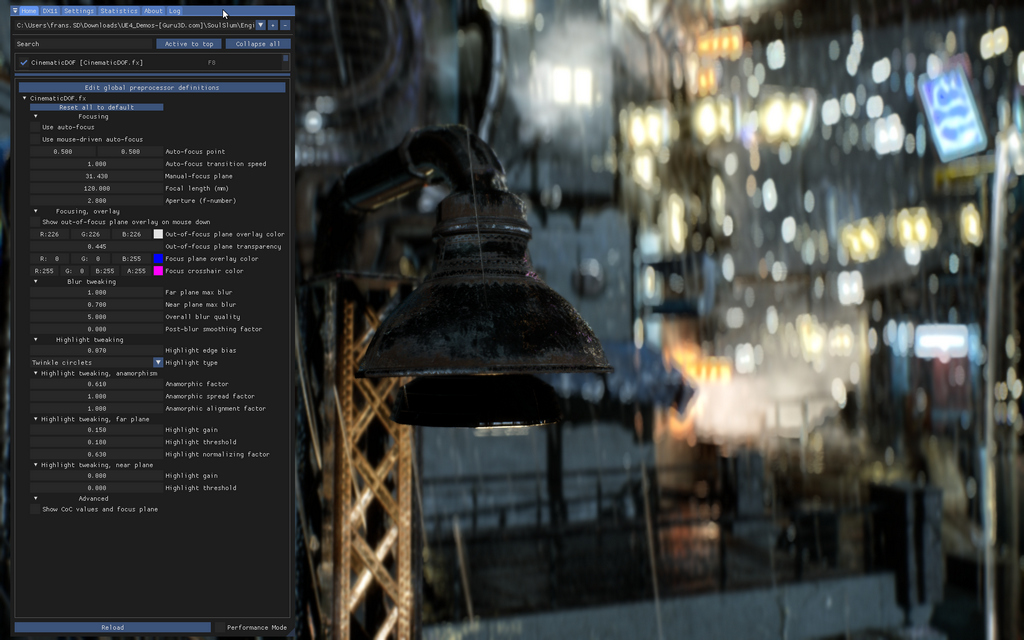
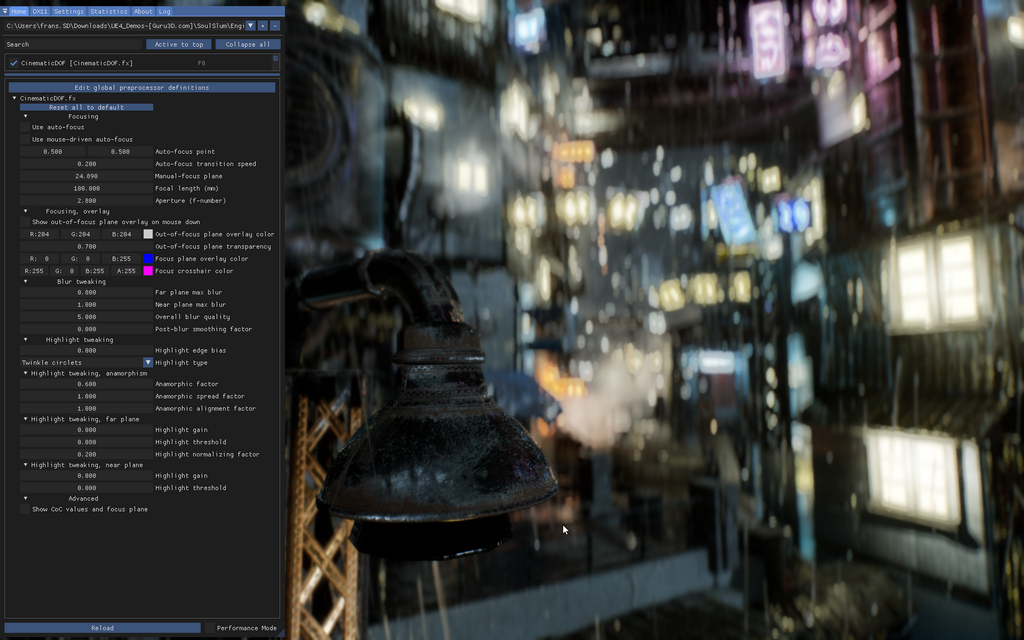
UPdated images in cinematicdof guide

diff --git a/ReshadeGuides/Shaders/cinematicdof.htm b/ReshadeGuides/Shaders/cinematicdof.htm
@@ -101,7 +101,8 @@ and this guide should help you understand what the various values mean and what 
 <p>All settings in the Cinematic DOF shader are drag sliders, which means you can click them, hold the left-mousebutton and drag the mouse
 left or right to resp. decrease and increase the value. By holding <code>shift</code> while dragging the increase/decrease will go faster. When holding
 <code>ctrl</code> while clicking gives you the ability to type in the value you want. </p>
-<h2 id="focusing">Focusing<a class="headerlink" href="#focusing" title="Permalink to this headline"><i class="fa fa-link" aria-hidden="true"></i></a></h2>
+<div class="alert alert-info"><span class="alert-title"><i class="fa fa-info-circle"></i> Info</span><p>The screenshots below are taken with Cinematic DOF v1.1.10, released on May 25th, 2019.</p>
+</div><h2 id="focusing">Focusing<a class="headerlink" href="#focusing" title="Permalink to this headline"><i class="fa fa-link" aria-hidden="true"></i></a></h2>
 <p>One of the most important parts of a depth of field shader is to focus on the right element in the 3D world. By default the 
 shader has its focusing mode set to <em>auto-focus</em> and <em>mouse-driven auto-focus</em>. This means that if you mouse the mouse over the scene, the 
 element that's below the mouse pointer will be the element the shader will focus on. Everything in front of it and behind it will be blurred.</p>
@@ -130,12 +131,12 @@ you want to focus on). That leaves the focal length and the aperture. </p>
 in general it means the lower the value, the more open the lens will be, so the more light will come into the lens/camera, and with that the more blur you'll 
 get in out-of-focus areas. For the Cinematic DOF shader, the two parameters are basically doing the same thing, as the shader itself doesn't control the amount of
 light coming into the camera. </p>
-<p>So what values should you pick? To get started, let's look at the defaults the shader comes with: 120mm for Focal length and 2.8 for aperture. If you'd use
-a 120mm lens on a modern camera with aperture 2.8 you'd get nice portrait shots with a nice shallow depth of field and nice background blur. </p>
+<p>So what values should you pick? To get started, let's look at the defaults the shader comes with: 100mm for Focal length and 2.8 for aperture. If you'd use
+a 100mm lens on a modern camera with aperture 2.8 you'd get nice portrait shots with a nice shallow depth of field and nice background blur. </p>
 <p>Here's the default setting in action:</p>
 <div class="figure">
-<img src="../../Images/ShaderGuides/CinematicDOF/focus_120mm_2_8.jpg" alt="120mm/2.8" title="120mm with 2.8 aperture" class="shadowed" width="1024" height="576" />
-<p>120mm with 2.8 aperture</p>
+<img src="../../Images/ShaderGuides/CinematicDOF/focus_100mm_2_8.jpg" alt="100mm/2.8" title="100mm with 2.8 aperture" class="shadowed" width="1024" height="576" />
+<p>100mm with 2.8 aperture</p>
 </div>
 <p>Look careful at the blurring on the wings of the statue, and the thick blurring in the background. </p>
 <p>If we change the lens and aperture to the values of a lens that's often sold with a modern camera, a 50mm lens with aperture 5.6, the results are a bit different:</p>
@@ -145,10 +146,10 @@ a 120mm lens on a modern camera with aperture 2.8 you'd get nice portrait shots 
 </div>
 <p>You can clearly see there's way less blur in the background. The focus is still on the statue, camera is still on the same distance. Also the blurring on the wings is gone, 
 they're cleanly in focus.</p>
-<p>Here's the same scene with a lens of 120mm and aperture of 5.6:</p>
+<p>Here's the same scene with a lens of 100mm and aperture of 5.6:</p>
 <div class="figure">
-<img src="../../Images/ShaderGuides/CinematicDOF/focus_120mm_5_6.jpg" alt="120mm/5.6" title="120mm with 5.6 aperture" class="shadowed" width="1024" height="576" />
-<p>120mm with 5.6 aperture</p>
+<img src="../../Images/ShaderGuides/CinematicDOF/focus_100mm_5_6.jpg" alt="100mm/5.6" title="100mm with 5.6 aperture" class="shadowed" width="1024" height="576" />
+<p>100mm with 5.6 aperture</p>
 </div>
 <p>And with a 50mm lens with aperture 2.8:</p>
 <div class="figure">
@@ -158,11 +159,11 @@ they're cleanly in focus.</p>
 <p>There's subtle more blur than with a 5.6 aperture. You're free to choose what will give you the right blur factor. It's often only necessary to change one the 
 two, either lens length <em>or</em> aperture, but not both. To get started, leave the aperture on 2.8 for now and only change the lens length to a lower value for less blur 
 and a higher value for more blur. </p>
-<div class="alert alert-tip"><span class="alert-title"><i class="fa fa-info-circle"></i> Tip</span><p>Moving the camera closer to the focused element also makes the blur be more prominent. </p>
+<div class="alert alert-tip"><span class="alert-title"><i class="fa fa-info-circle"></i> Tip</span><p>Moving the camera closer to the focused element also makes the blur be more prominent (and you have to change the manual focus plane if you're using manual focusing)</p>
 </div><h2 id="blur-tweaking">Blur tweaking<a class="headerlink" href="#blur-tweaking" title="Permalink to this headline"><i class="fa fa-link" aria-hidden="true"></i></a></h2>
 <p>After you've set up the focus, the lens length and aperture, you can now tweak the blur of the near plane (in front of what's in focus) and the far plane (what's behind
 what's in focus). Additionally you can change the quality of the blur and apply a post-blur smoothing factor to iron out any undersampling artifacts you might see. </p>
-<p>Let's see what these look like. We'll use the defaults of 120mm and aperture of 2.8</p>
+<p>Let's see what these look like. We'll use the defaults of 100mm and aperture of 2.8</p>
 <h3 id="far-plane-blur">Far plane blur<a class="headerlink" href="#far-plane-blur" title="Permalink to this headline"><i class="fa fa-link" aria-hidden="true"></i></a></h3>
 <p>First we have <em>Far plane max blur</em>. Here you can tweak the blur strength given by the lens length + aperture + distance combination. A value of 1.0 gives the 
 default blur for that combination. A value of 0 totally switches off bluring for the far plane. If you set the value to a high value, e.g. 3.0, you get excessive
@@ -178,11 +179,11 @@ blurring as seen in the shot below.</p>
 <p>Far plane blur with blur set to 0.5</p>
 </div>
 <p>This might look the same as using a shorter lens, like 50mm, but that's not the case: with a 50mm lens the blur starts later, deeper into the 3D world, farther away from 
-the focus plane. With 120mm the blur starts already on the wings of the statue. Because the blur factor is set to a lower value, the blur is very subtle. </p>
+the focus plane. With 100mm the blur starts already on the wings of the statue. Because the blur factor is set to a lower value, the blur is very subtle. </p>
 <h3 id="near-plane-blur">Near plane blur<a class="headerlink" href="#near-plane-blur" title="Permalink to this headline"><i class="fa fa-link" aria-hidden="true"></i></a></h3>
 <p>Additionally you can tweak the blur for the <em>near plane</em>. The near plane is blurred with a soft edge to make it realistic. The same applies to the near plane blur as 
 for the far plane blur: setting it to 0 switches it off, setting it to a high value makes the blur extremely prominent. </p>
-<p>Below an example shot where the focus is on the second pilar, using the default blur factor of 1.0 for both near and far plane.</p>
+<p>Below an example shot where the focus is on the statue and far blur has been disabled, using the default near plane blur factor of 1.0.</p>
 <div class="figure">
 <img src="../../Images/ShaderGuides/CinematicDOF/blur_np_1_0.jpg" alt="near plane blur 1.0" title="Near plane blur with blur set to 1.0" class="shadowed" width="1024" height="576" />
 <p>Near plane blur with blur set to 1.0</p>
@@ -225,35 +226,39 @@ than it is on the edges. To do this, increase the <strong>Highlight edge bias</s
 <p>Highlight edge bias of 0.5</p>
 </div>
 <h3 id="highlight-type">Highlight type<a class="headerlink" href="#highlight-type" title="Permalink to this headline"><i class="fa fa-link" aria-hidden="true"></i></a></h3>
-<p>There are different types of highlights. The default is <em>Twinkle circles</em> which gives the nice round colored highlight bokehs. However Cinematic DOF has another
-highlight type, Bloom burn. It can give a more bloomy highlight without the typical round bokehs. An example of this is below.</p>
+<p>There are different types of highlights: Bloom burn and Twinkle circlets. The latter gives more prominent round colored highlight bokehs, Bloom burn keeps things more subtle.
+An example of each is below.</p>
 <div class="figure">
-<img src="../../Images/ShaderGuides/CinematicDOF/ht_bloomblur.jpg" alt="Bloom blur" title="Bloom blur highlight type" class="shadowed" width="1024" height="576" />
-<p>Bloom blur highlight type</p>
+<img src="../../Images/ShaderGuides/CinematicDOF/ht_bloomblur.jpg" alt="Bloom blur" title="Bloom burn highlight type" class="shadowed" width="1024" height="576" />
+<p>Bloom burn highlight type</p>
+</div>
+<div class="figure">
+<img src="../../Images/ShaderGuides/CinematicDOF/ht_twinklecirclets.jpg" alt="Twinkle circlets" title="Twinkle circlets highlight type" class="shadowed" width="1024" height="576" />
+<p>Twinkle circlets highlight type</p>
 </div>
 <h3 id="highlight-gain">Highlight gain<a class="headerlink" href="#highlight-gain" title="Permalink to this headline"><i class="fa fa-link" aria-hidden="true"></i></a></h3>
-<p>Both near and far plane have their own <strong>Highlight gain</strong>. This value controls how much of a boost the highlights get. Below you'll see a shot of
-a scene in another Unreal Engine demo, SoulSlum, where there are a lot of background lights, and by default they still look quite weak:</p>
+<p>Both near and far plane have their own <strong>Highlight gain</strong>. This value controls how much of a boost the highlights get. Below you'll see a shot with some 
+far and near highlights, and by default they still look quite weak:</p>
 <div class="figure">
-<img src="../../Images/ShaderGuides/CinematicDOF/ht_gain_off.jpg" alt="Highlight gain off" title="Highlight gain of 0.0" class="shadowed" width="1024" height="640" />
+<img src="../../Images/ShaderGuides/CinematicDOF/ht_gain_off.jpg" alt="Highlight gain off" title="Highlight gain of 0.0" class="shadowed" width="1024" height="576" />
 <p>Highlight gain of 0.0</p>
 </div>
-<p>However if we crank the Highlight gain of the far plane up to 1.0, we get a totally different scene:</p>
+<p>However if we crank the Highlight gain of the near and far plane up to 0.5, we get a totally different scene:</p>
 <div class="figure">
-<img src="../../Images/ShaderGuides/CinematicDOF/ht_gain_1_0.jpg" alt="Highlight gain 1.0" title="Highlight gain of 1.0" class="shadowed" width="1024" height="640" />
-<p>Highlight gain of 1.0</p>
+<img src="../../Images/ShaderGuides/CinematicDOF/ht_gain_0_5.jpg" alt="Highlight gain 0.5" title="Highlight gain of 0.5" class="shadowed" width="1024" height="576" />
+<p>Highlight gain of 0.5</p>
 </div>
 <p>This might be a bit much however. There's another control you can use in tandem with the highlight gain, which is described in the next paragraph</p>
 <h3 id="highlight-treshold">Highlight treshold<a class="headerlink" href="#highlight-treshold" title="Permalink to this headline"><i class="fa fa-link" aria-hidden="true"></i></a></h3>
 <p>By default all highlights are boosted when you crank up the highlight gain of either near or far plane. This might be what you want, but it likely is a bit much. Also
 in case of TAA/SMAA artifacts it might be you get highlight edges on your focused element because the framebuffer doesn't perfectly align with the depth buffer. </p>
-<p>To tell the shader to only crank up the highlights above a certain brightness, you can use the <strong>Highlight treshold</strong> for both near plane and far plane. If it's set
-to e.g. 0.3, all pixels which have a luminosity of 0.3 (0.0 being black, 1.0 being bright white) will be boosted. Below is an example shot with the same gain as above
-but now also paired with a threshold of 0.7. All pixels which are brighter than 0.7 will get the gain applied, all other pixels are left alone. A lot less highlights are
-visible, only the ones which are very bright.</p>
+<p>To tell the shader to only crank up the highlights above a certain luminosity, you can use the <strong>Highlight treshold</strong> for both near plane and far plane. If it's set
+to e.g. 0.3, all pixels which have a luminosity of 0.3 or higher (0.0 being black, 1.0 being bright white) will be boosted. Below is an example shot with the same gain as above
+but now also paired with a threshold of 0.5. All pixels which are brighter than 0.5 will get the gain applied, all other pixels are left alone. The highlights
+in front of the fire in the back are dimmed a bit, only the brightest ones are visible.</p>
 <div class="figure">
-<img src="../../Images/ShaderGuides/CinematicDOF/ht_threshold.jpg" alt="Highlight threshold" title="Highlight threshold of 0.7 with gain of 1.0" class="shadowed" width="1024" height="640" />
-<p>Highlight threshold of 0.7 with gain of 1.0</p>
+<img src="../../Images/ShaderGuides/CinematicDOF/ht_threshold.jpg" alt="Highlight threshold" title="Highlight threshold of 0.5 with gain of 0.8" class="shadowed" width="1024" height="576" />
+<p>Highlight threshold of 0.5 with gain of 0.8</p>
 </div>
 <h3 id="highlight-normalization-for-far-plane">Highlight normalization for far plane<a class="headerlink" href="#highlight-normalization-for-far-plane" title="Permalink to this headline"><i class="fa fa-link" aria-hidden="true"></i></a></h3>
 <p>The way the highlights are calculated depends on luminosity and the blur factor. This can lead to a loss in <em>light energy</em> around the edges of a bokeh highlight as 
@@ -261,8 +266,8 @@ things are calculated in SDR, not HDR. To make it look like everything was done 
 shader comes with a normalization factor, which can correct this.</p>
 <p>In the shot below we use little gain, a small threshold value and a normalization factor. This leads to nice circular bokehs in the far plane. </p>
 <div class="figure">
-<img src="../../Images/ShaderGuides/CinematicDOF/ht_normalized.jpg" alt="Highlight normalization" title="Highlight normalization of 0.5 with gain of 0.15 and threshold of 0.18" class="shadowed" width="1024" height="640" />
-<p>Highlight normalization of 0.5 with gain of 0.15 and threshold of 0.18</p>
+<img src="../../Images/ShaderGuides/CinematicDOF/ht_normalized.jpg" alt="Highlight normalization" title="Highlight normalization of 0.26" class="shadowed" width="1024" height="640" />
+<p>Highlight normalization of 0.26</p>
 </div>
 <p>The near plane doesn't have normalization as it doesn't need it: the blur system of the near plane works differently so highlights don't need normalization.</p>
 <h2 id="anamorphism-control">Anamorphism control<a class="headerlink" href="#anamorphism-control" title="Permalink to this headline"><i class="fa fa-link" aria-hidden="true"></i></a></h2>
